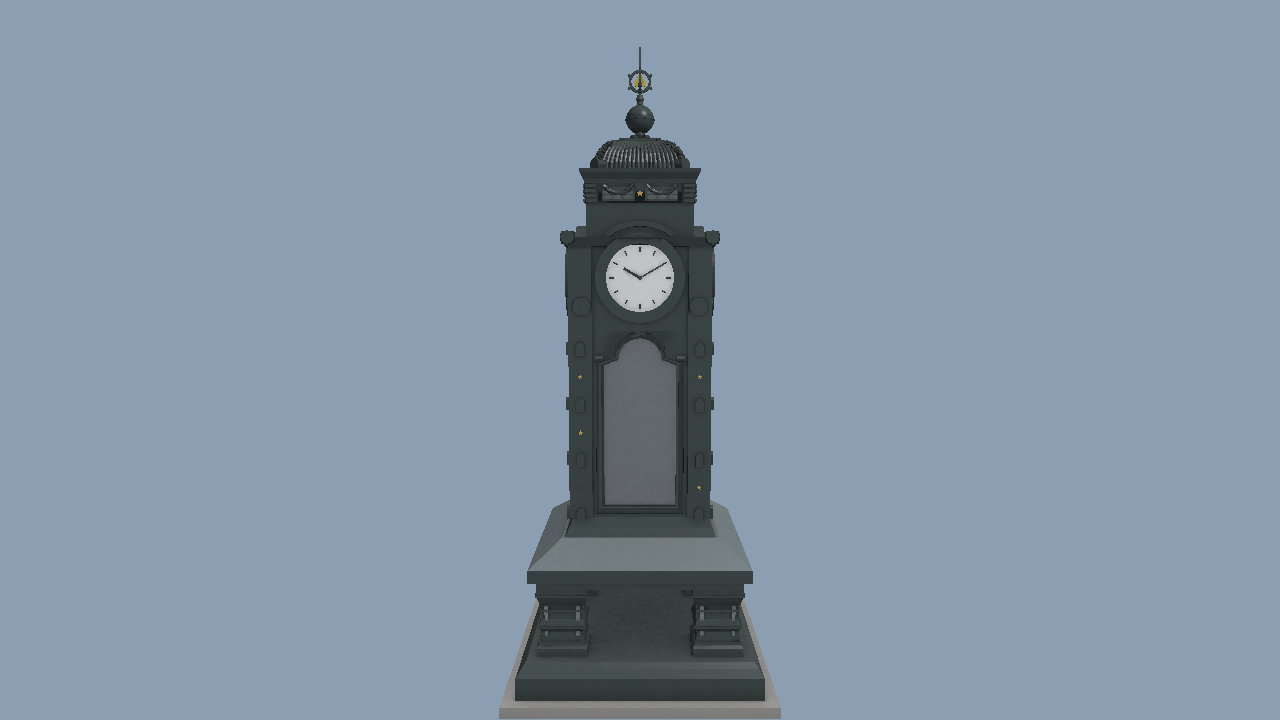
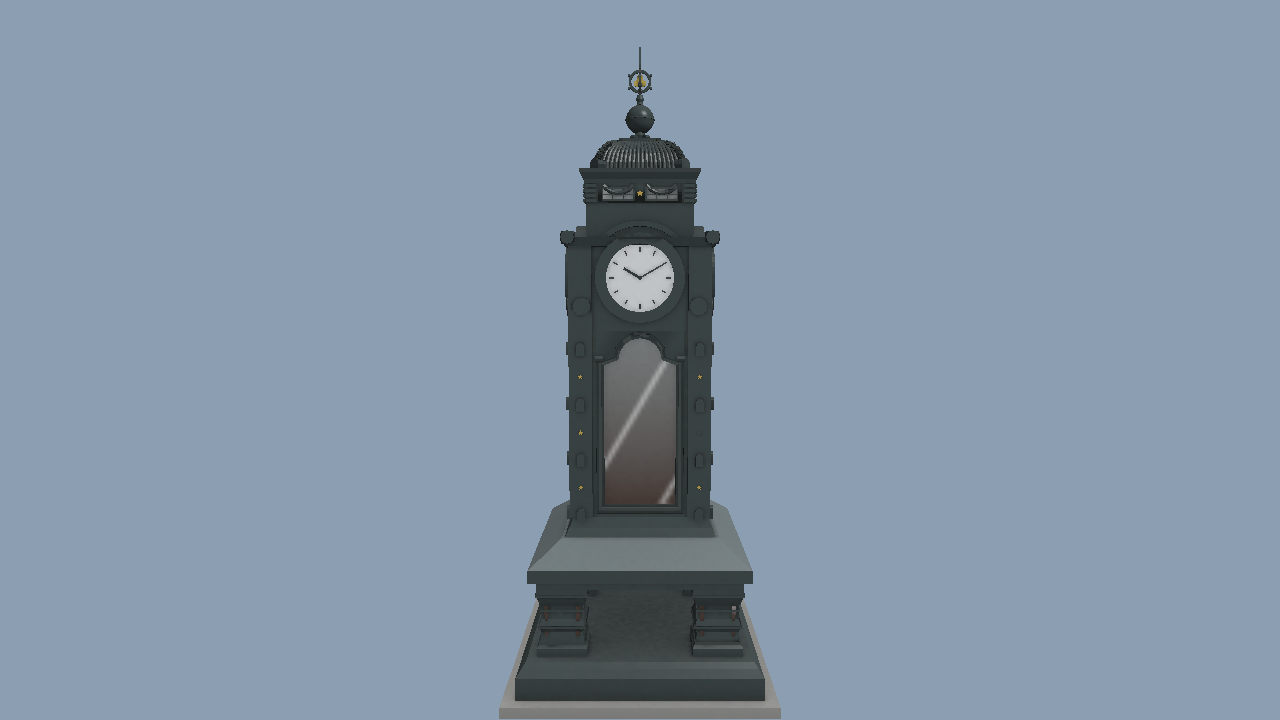
feat(art): parts workflow — same-named sections per key photo, photo_tools crops (builder references), compare.py --part (one part, all key photos, one image); Kröpcke glass with baked reflection gradient + recessed panes; stronger glass tests

Changed region(s): [[0.4688, 0.55, 0.5312, 0.7028], [0.5, 0.4889, 0.5312, 0.55]]

diff --git a/RunnerGame/Art/assets/kroepcke_uhr/build.py b/RunnerGame/Art/assets/kroepcke_uhr/build.py
@@ -374,10 +374,73 @@ def build_top(S, F, d, head_w):
         S[key].add_rotated(T[key], 1)
 
 
+def glass_material(name, c_top, c_bot, z_bot, z_top, look):
+    """Baked-look glass: Base Color = vertical gradient bottom->top plus diagonal light reflection bands (world position)."""
+    m = bpy.data.materials.new(name)
+    m.use_nodes = True
+    nt = m.node_tree
+    N, L = nt.nodes, nt.links
+    bsdf = next(n for n in N if n.type == "BSDF_PRINCIPLED")
+    bsdf.inputs["Roughness"].default_value = 0.1
+    geo = N.new("ShaderNodeNewGeometry")
+    sep = N.new("ShaderNodeSeparateXYZ")
+    L.new(geo.outputs["Position"], sep.inputs["Vector"])
+
+    def math(op, a, b=None):
+        n = N.new("ShaderNodeMath")
+        n.operation = op
+        for sock, val in ((n.inputs[0], a), (n.inputs[1], b)):
+            if val is None:
+                continue
+            if isinstance(val, (int, float)):
+                sock.default_value = val
+            else:
+                L.new(val, sock)
+        return n.outputs[0]
+
+    def map_range(value, a0, a1, b0, b1):
+        n = N.new("ShaderNodeMapRange")
+        n.clamp = True
+        L.new(value, n.inputs["Value"])
+        for key, val in (("From Min", a0), ("From Max", a1), ("To Min", b0), ("To Max", b1)):
+            n.inputs[key].default_value = val
+        return n.outputs["Result"]
+
+    def mix(a, b, fac, blend='MIX'):
+        n = N.new("ShaderNodeMix")
+        n.data_type = 'RGBA'
+        n.blend_type = blend
+        n.clamp_factor = True
+        for sock, val in ((n.inputs[6], a), (n.inputs[7], b)):
+            if isinstance(val, tuple):
+                sock.default_value = (*val, 1)
+            else:
+                L.new(val, sock)
+        if isinstance(fac, (int, float)):
+            n.inputs[0].default_value = fac
+        else:
+            L.new(fac, n.inputs[0])
+        return n.outputs[2]
+
+    t = map_range(sep.outputs["Z"], z_bot, z_top, 0.0, 1.0)
+    grad = mix(tuple(c_bot), tuple(c_top), t)
+    st = look["streaks"]
+    ang = math_radians = __import__("math").radians(st["angle_deg"])
+    cosa, sina = __import__("math").cos(ang), __import__("math").sin(ang)
+    horiz = math("SUBTRACT", sep.outputs["X"], sep.outputs["Y"])          # x on the front/back faces, -y on the sides
+    u = math("SUBTRACT", math("MULTIPLY", horiz, sina), math("MULTIPLY", sep.outputs["Z"], cosa))
+    period = 1.3 / st["count"]
+    m1 = math("MODULO", math("ADD", u, 100.0), period)
+    d = math("ABSOLUTE", math("SUBTRACT", m1, period / 2))
+    band = map_range(d, st["w"] / 2, 0.0, 0.0, 1.0)
+    L.new(mix(grad, (1.0, 1.0, 1.0), math("MULTIPLY", band, st["boost"] * 4), 'ADD'), bsdf.inputs["Base Color"])
+    return m
+
+
 def build(spec):
     d, c = spec.d, spec.c
     mat = {"iron": al.material("iron", c("iron"), dust=0.15, streaks=0.25, grime=0.3, scratches=0.15, mottle=0.1),
-           "dial": al.flat("dial", c("dial")), "glass": al.flat("glass", c("glass")), "gold": al.flat("gold", c("gold")),
+           "dial": al.flat("dial", c("dial")), "glass": None, "gold": al.flat("gold", c("gold")),
            "iron_top": al.flat("iron_top", c("iron_top")), "stone": al.flat("stone", c("stone"))}
     S = {k: Acc() for k in mat}                      # whole clock, per material
     F = {k: Acc() for k in mat}                      # one face (front, -Y); copied 4x rotated into S
@@ -439,7 +502,12 @@ def build(spec):
     # --- shaft with the showcase recesses, corner pilasters
     sc = d("showcase")
     z0s, z1s, sw = sc["z0"], sc["z1"], sc["w"]
-    t = 0.1 * sw                                     # recess depth: inset ~ 10 % of the width
+    t0 = 0.1 * sw                                    # frame steps: inset ~ 10 % of the width
+    sf = orn["showcase_frame"]
+    gl = d("glass_look")
+    yg = -h + sf["steps"] * 0.25 * t0 + gl["recess"]  # pane sits `recess` behind the innermost frame edge
+    t = yg + h + 0.004                               # wall thickness: the core wall is just behind the pane
+    mat["glass"] = glass_material("glass", c("glass_top"), c("glass_bottom"), z0s + sc["frame_w"], z1s - sc["frame_w"], gl)
     S["iron"].box(-h, h, -h, h, body["z0"], z0s)
     S["iron"].box(-h, h, -h, h, z1s, body["z1"])
     S["iron"].box(-(h - t), h - t, -(h - t), h - t, z0s, z1s)
@@ -454,8 +522,7 @@ def build(spec):
     stp = sc["frame_w"] / sf["steps"]
     outlines = [shoulder_arch(sw - 2 * k * stp, z0s + k * stp, z1s - k * stp)[0] for k in range(sf["steps"] + 1)]
     inner = outlines[-1]
-    yg = -h + t - 0.004
-    planes = [-h + (k + 1) * 0.25 * t for k in range(sf["steps"])] + [yg]
+    planes = [-h + (k + 1) * 0.25 * t0 for k in range(sf["steps"])] + [yg]
     for sx in (-1, 1):                               # wall beside the recess
         xa, xb = sorted((sx * sw / 2, sx * h))
         F["iron"].box(xa, xb, -h, -h + t, z0s, z1s)

diff --git a/RunnerGame/Art/tests/blender_test_kroepcke.py b/RunnerGame/Art/tests/blender_test_kroepcke.py
@@ -232,6 +232,35 @@ class KroepckeBuildTest(unittest.TestCase):
         for sign in (-1, 1):
             self.assertTrue([v for v in self.verts if abs(v.z - ztop) < 1e-3 and sign * v.x > 0.5 and v.y < -0.5])
 
+    def test_glass_material_varies_with_height(self):
+        nodes = bpy.data.materials["glass"].node_tree.nodes
+        links = bpy.data.materials["glass"].node_tree.links
+        types = {n.type for n in nodes}
+        self.assertIn("SEPXYZ", types)
+        self.assertIn("MAP_RANGE", types)
+        self.assertIn("NEW_GEOMETRY", types)
+        self.assertTrue([l for l in links if l.from_node.type == "SEPXYZ" and l.from_socket.name == "Z" and l.to_node.type == "MAP_RANGE"])
+        bsdf = next(n for n in nodes if n.type == "BSDF_PRINCIPLED")
+        self.assertTrue(bsdf.inputs["Base Color"].is_linked)
+        # the height gradient must really change colour: some MIX node blends two clearly different colours
+        spread = 0.0
+        for n in nodes:
+            if n.type == "MIX" and getattr(n, "data_type", "") == "RGBA" and not n.inputs[6].is_linked and not n.inputs[7].is_linked:
+                a, b = n.inputs[6].default_value, n.inputs[7].default_value
+                spread = max(spread, max(abs(a[i] - b[i]) for i in range(3)))
+        self.assertGreater(spread, 0.1, "glass gradient endpoints are (almost) the same colour")
+
+    def test_glass_pane_is_recessed(self):
+        from mathutils import Vector
+        sc, gl = self.spec.d("showcase"), self.spec.d("glass_look")
+        h = self.spec.d("body")["w"] / 2
+        frame_inner = -h + self.spec.d("ornaments")["showcase_frame"]["steps"] * 0.25 * 0.1 * sc["w"]
+        zc = (sc["z0"] + sc["z1"]) / 2
+        bpy.context.view_layer.update()
+        hit, loc, *_ = bpy.context.scene.ray_cast(bpy.context.view_layer.depsgraph, Vector((0, -5, zc)), Vector((0, 1, 0)), distance=10)
+        self.assertTrue(hit)
+        self.assertGreaterEqual(loc.y - frame_inner, gl["recess"] - 1e-3)
+
     def test_pedestal_arch_is_open(self):
         # Rays through the middle of each side (x = 0 / y = 0) must pass the whole pedestal: faces, not vertices.
         from mathutils import Vector

diff --git a/RunnerGame/Art/lib/photo_tools.py b/RunnerGame/Art/lib/photo_tools.py
@@ -7,6 +7,7 @@ is outdated.
 CLI (from the repo root):
     python RunnerGame/Art/lib/photo_tools.py fetch <asset_dir> <titles.txt>
     python RunnerGame/Art/lib/photo_tools.py sheet <asset_dir>
+    python RunnerGame/Art/lib/photo_tools.py crops <asset_dir>     # reference crop per part and key photo
 """
 import html
 import json
@@ -172,6 +173,26 @@ def credits_lines(photos):
     return [f'- {p["file"]}: "{p["title"]}" by {p["author"]}, {p["licence"]}, {p["source_url"]}' for p in photos]
 
 
+def part_crops(asset_dir, scale=2):
+    """Reference crop of every part (refs.json "sections", same names across photos) in every KEY photo,
+    enlarged by `scale`, written to previews/crops/crop_<part>_<NN>.png. These are the images the builder gets."""
+    asset_dir = Path(asset_dir)
+    out_dir = asset_dir / "previews" / "crops"
+    out_dir.mkdir(parents=True, exist_ok=True)
+    written = []
+    for photo in load_refs(asset_dir)["photos"]:
+        if not photo.get("key"):
+            continue
+        with Image.open(asset_dir / photo["file"]) as im:
+            for name, box in photo.get("sections", {}).items():
+                crop = im.convert("RGB").crop(tuple(box))
+                crop = crop.resize((crop.width * scale, crop.height * scale), Image.LANCZOS)
+                path = out_dir / f"crop_{name}_{Path(photo['file']).stem}.png"
+                crop.save(path)
+                written.append(path)
+    return written
+
+
 # ---------------------------------------------------------------- reading photos
 
 def grid_positions(crop, step, scale):
@@ -253,6 +274,9 @@ def main(argv):
         spec = json.loads(pairs_file.read_text(encoding="utf-8"))
         for name, metres in measure(photo["landmarks"], tuple(spec["ruler"]), spec["pairs"]).items():
             print(f"{name:20s} {metres:.3f} m")
+    elif cmd == "crops":
+        for path in part_crops(argv[1]):
+            print("crop", path)
     elif cmd == "fetch":
         asset_dir, titles_file = Path(argv[1]), Path(argv[2])
         titles = [t.strip() for t in titles_file.read_text(encoding="utf-8").splitlines() if t.strip()]

diff --git a/RunnerGame/Art/lib/compare.py b/RunnerGame/Art/lib/compare.py
@@ -1,6 +1,7 @@
 """Build an asset and compare it with one reference photo (one round of the comparison loop).
 
 blender --background --factory-startup --python RunnerGame/Art/lib/compare.py -- <asset_dir> <ref/NN.jpg> [--fit] [--zoom x0,y0,x1,y1] [--sections]
+blender ... --python RunnerGame/Art/lib/compare.py -- <asset_dir> --part <name>   # one part, all key photos, one image
 
 --sections writes ONE sheet (<out>_sections.png) with a row per entry of the photo's "sections" in refs.json
 ({"name": [x0, y0, x1, y1]}): photo | model in colour | 50/50 blend, each at 320 px height.
@@ -19,7 +20,31 @@ sys.path.insert(0, str(Path(__file__).resolve().parent))
 import photo_lib as pl  # noqa: E402
 
 
+def part_main(asset_dir, name):
+    """--part NAME: build once, render that part in every key photo that has it, one stacked image."""
+    refs = json.loads((asset_dir / "refs.json").read_text(encoding="utf-8"))
+    spec = importlib.util.spec_from_file_location("asset_build", asset_dir / "build.py")
+    build = importlib.util.module_from_spec(spec)
+    spec.loader.exec_module(build)
+    pl.al.clear_scene()
+    build.build(pl.Spec(asset_dir / "spec.json"))
+    photos = [(str(asset_dir / p["file"]), p["camera"], p["sections"][name], p.get("landmarks", {}))
+              for p in refs["photos"] if p.get("key") and p.get("camera") and name in p.get("sections", {})]
+    if not photos:
+        raise SystemExit(f"no key photo with a camera has a section '{name}'")
+    previews = asset_dir / "previews"
+    previews.mkdir(exist_ok=True)
+    rnd = 1
+    while (previews / f"part_{name}_r{rnd}.png").exists():
+        rnd += 1
+    out = previews / f"part_{name}_r{rnd}.png"
+    pl.part_sheet(photos, str(out))
+    print("wrote", out)
+
+
 def main(argv):
+    if argv[1] == "--part":
+        return part_main(Path(argv[0]).resolve(), argv[2])
     asset_dir, photo_file = Path(argv[0]).resolve(), argv[1]
     refs = json.loads((asset_dir / "refs.json").read_text(encoding="utf-8"))
     photo = next((p for p in refs["photos"] if p["file"] == photo_file), None)

diff --git a/RunnerGame/Art/tests/test_photo_tools.py b/RunnerGame/Art/tests/test_photo_tools.py
@@ -143,6 +143,25 @@ class FetchRobustnessTest(unittest.TestCase):
             self.assertEqual((Path(d) / "refs.json").read_text(encoding="utf-8"), refs)
 
 
+class PartCropsTest(unittest.TestCase):
+    def test_crops_per_part_and_photo(self):
+        with tempfile.TemporaryDirectory() as d:
+            d = Path(d)
+            (d / "ref").mkdir()
+            Image.new("RGB", (400, 300), (10, 20, 30)).save(d / "ref" / "01.jpg")
+            Image.new("RGB", (300, 400), (40, 50, 60)).save(d / "ref" / "04.jpg")
+            refs = {"photos": [
+                {"file": "ref/01.jpg", "key": True, "sections": {"top": [10, 10, 110, 60], "legs": [0, 200, 200, 300]}},
+                {"file": "ref/04.jpg", "key": True, "sections": {"top": [50, 0, 150, 100]}},
+                {"file": "ref/09.jpg", "key": False, "sections": {"top": [0, 0, 10, 10]}}]}
+            (d / "refs.json").write_text(json.dumps(refs), encoding="utf-8")
+            written = pt.part_crops(d, scale=2)
+            names = sorted(p.name for p in written)
+            self.assertEqual(names, ["crop_legs_01.png", "crop_top_01.png", "crop_top_04.png"])
+            with Image.open(d / "previews" / "crops" / "crop_top_01.png") as im:
+                self.assertEqual(im.size, (200, 100))
+
+
 class SaveNormalisedTest(unittest.TestCase):
     def test_save_normalised_exif_rotation(self):
         exif = Image.Exif()

diff --git a/RunnerGame/Art/lib/photo_lib.py b/RunnerGame/Art/lib/photo_lib.py
@@ -306,6 +306,23 @@ def _save_section_sheet(layers, sections, h, path):
     _save_crop(sheet, (0, sheet.shape[0], 0, sheet.shape[1]), path, max_side=10 ** 6)
 
 
+def part_sheet(photos, out_png):
+    """One part across several key photos: photos = [(photo_path, cam, box, landmarks), ...].
+    Writes one image with a row per photo (photo | model colour | 50/50 blend, SECTION_ROW_H high)."""
+    import tempfile
+    rows = []
+    with tempfile.TemporaryDirectory() as tmp:
+        for i, (path, cam, box, lms) in enumerate(photos):
+            out = str(Path(tmp) / f"row{i}.png")
+            compare_image(path, cam, out, lms, sections=[("part", tuple(box))])
+            rows.append(_load_pixels(str(Path(tmp) / f"row{i}_sections.png")))
+    width = max(r.shape[1] for r in rows)
+    sheet = np.ones((SECTION_ROW_H * len(rows), width, 4), dtype=np.float32)
+    for i, r in enumerate(reversed(rows)):          # rows are bottom-up: first photo ends up on top
+        sheet[i * SECTION_ROW_H:(i + 1) * SECTION_ROW_H, :r.shape[1]] = r
+    _save_crop(sheet, (0, sheet.shape[0], 0, sheet.shape[1]), Path(out_png).resolve(), max_side=10 ** 6)
+
+
 def _render_materials(path, samples=8):
     """Quick Cycles render with the real (node) materials and transparent film, for the blend image."""
     scene = bpy.context.scene

diff --git a/RunnerGame/Art/tests/blender_test_photo_lib.py b/RunnerGame/Art/tests/blender_test_photo_lib.py
@@ -121,6 +121,27 @@ class LensShiftTest(unittest.TestCase):
         self.assertLess(rms, 1.0)
 
 
+class PartSheetTest(unittest.TestCase):
+    def test_part_sheet_has_one_row_per_photo(self):
+        scene_with_landmarks()
+        photo_lib.al.box("cube", (1, 1, 1), (0, 0, 0), None)
+        with tempfile.TemporaryDirectory() as d:
+            photos = []
+            for i, (w, h) in enumerate(((300, 200), (200, 300))):
+                path = str(Path(d) / f"p{i}.png")
+                img = bpy.data.images.new(f"__p{i}", w, h)
+                img.pixels[:] = [0.5] * (w * h * 4)
+                img.filepath_raw = path
+                img.file_format = 'PNG'
+                img.save()
+                photos.append((path, CAM, (0, 0, 100, 50), {"o": [w / 2, h / 2]}))
+            out = str(Path(d) / "part.png")
+            photo_lib.part_sheet(photos, out)
+            sheet = bpy.data.images.load(out)
+            self.assertEqual(sheet.size[1], 2 * photo_lib.SECTION_ROW_H)
+            self.assertEqual(sheet.size[0], 3 * 2 * photo_lib.SECTION_ROW_H)
+
+
 class ErrorsTest(unittest.TestCase):
     def test_errors_rms(self):
         errors, rms = photo_lib.landmark_errors({"a": (0, 0), "b": (3, 4)}, {"a": [0, 0], "b": [0, 0]})

diff --git a/.claude/skills/photo-to-model/SKILL.md b/.claude/skills/photo-to-model/SKILL.md
@@ -29,6 +29,16 @@ View ONLY the contact sheet. Edit `refs.json`: set `view` (`side_left`, `side_ri
 `detail_level`, `tri_budget`, `tex_res` in spec.json. Also set `"camera_z_range"` on each key photo from where it was
 taken (standing on a street ≈ [1, 2]; across water ≈ [-4, 6]). Stop and wait.
 
+**Parts (the backbone of steps 2–6).** Split the object into named parts (`top`, `head`, `glass`, `legs`, …) and
+give EVERY key photo the same names in refs.json `"sections": {"<part>": [x0, y0, x1, y1]}` — cut each box tight
+around that part so the part fills it. The same boxes are used three times:
+1. **Measure:** a 1:1 grid of the part box (`grid --crop <box> --step 10`).
+2. **Build:** `python RunnerGame/Art/lib/photo_tools.py crops A` writes `A/previews/crops/crop_<part>_<NN>.png`
+   (2×, every key photo) — the builder brief names exactly these files for the part it works on (≤ 2 images).
+3. **Check:** `BL --python RunnerGame/Art/lib/compare.py -- A --part <part>` → `A/previews/part_<part>_r<k>.png`:
+   one row per key photo (photo | model colour | 50/50 blend). A part is done when NO row shows a double image.
+Work part by part (worst part first); one part image per round.
+
 **Step 2 - Sections, then measure -> `spec.json`.** Pick a ruler (known real size: wheel diameter, a published
 facade length, a tower height). Split the key photo into **sections** (one per distinct part: tower, dome group,
 gable, central block, wheel, handlebar...) and write them into that photo's refs.json entry as
@@ -106,7 +116,7 @@ approve anything; only the user approves.
 | A | **STOP A** – photo pack | user | – | – | 1 (contact sheet) |
 | 3 | sections, 1:1 grids, profiles, landmarks, `color`, `spec.json` | main session | user's model | once per section, before any build | 1 grid per section |
 | 4 | first build from the filled-in `builder_brief.md` | builder agent | **sonnet** | until its Blender tests pass | 1 preview |
-| 5 | `--fit` once, then section loop (`compare.py --sections`) | main session | user's model | until no section shows a double image (see loop rules) | 1 section sheet per round |
+| 5 | `--fit` per key photo once, then part loop (`compare.py --part <part>`, worst part first) | main session | user's model | until no row of the part shows a double image (see loop rules) | 1 part image per round |
 | B | **STOP B** – outline | user | – | – | the 2 final overlays |
 | 6 | details, materials, `--export` | builder agent | **sonnet** | self-check by numbers (tris, bounds, tests); ≤ 2 rounds per detail photo | ≤ 4 |
 | 7 | independent review against the photos | reviewer agent | **sonnet** | one review; **reads, never edits** | ≤ 4 (1 engine sheet + ≤ 3 refs) |

diff --git a/.claude/skills/photo-to-model/builder_brief.md b/.claude/skills/photo-to-model/builder_brief.md
@@ -30,4 +30,5 @@ test can fail (breaks the build code once, sees RED, restores) before trusting i
 `scene.ray_cast`, never by looking for vertices in the gap.
 
 ## Image budget
-At most 1 own preview (Workbench, size 512). Do not open comparison images.
+The part's reference crops `A/previews/crops/crop_<part>_<NN>.png` (≤ 2) + at most 1 own preview
+(Workbench, size 512). Do not open comparison images.
